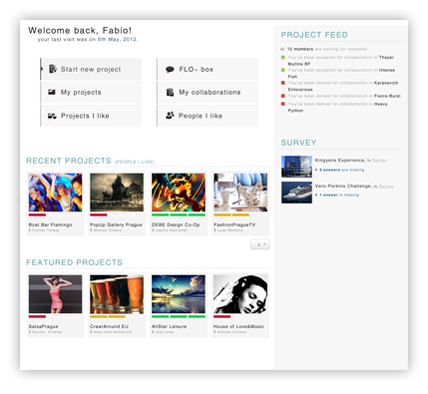
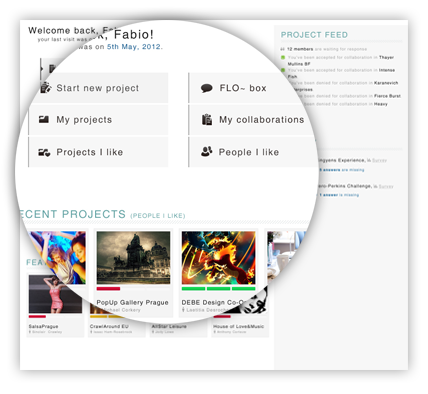
detaily na screenech

diff --git a/public/media/slepice-launch/1.0.0/css/launchpage_css.css b/public/media/slepice-launch/1.0.0/css/launchpage_css.css
@@ -198,6 +198,10 @@ h3.lp-faq-question{
   padding: 0 0 0 15px;
 }
 
+#descriptions{
+  height: 150px;
+}
+
 .screen-description{
   color: #0a4461;
   border-left: 5px solid #7190bd;
@@ -236,17 +240,18 @@ h4{
 }
 
 .lp-screens-navigation{
-  width: 388px;
-  margin: 0 0 10px 30px;
+  width: 100%;
+  margin: 0;
   padding: 0px;
   list-style: none;
   float: left;
 }
 
 .lp-screens-navigation-thumbnails{
-	width: 18%;
+	width: 17%;
 	margin: 0px 1% 0px 1%;
   float: left;
+  border: 2px solid #c8c8c8;
 }
 
 .lp-screens-navigation-thumbnails img{
